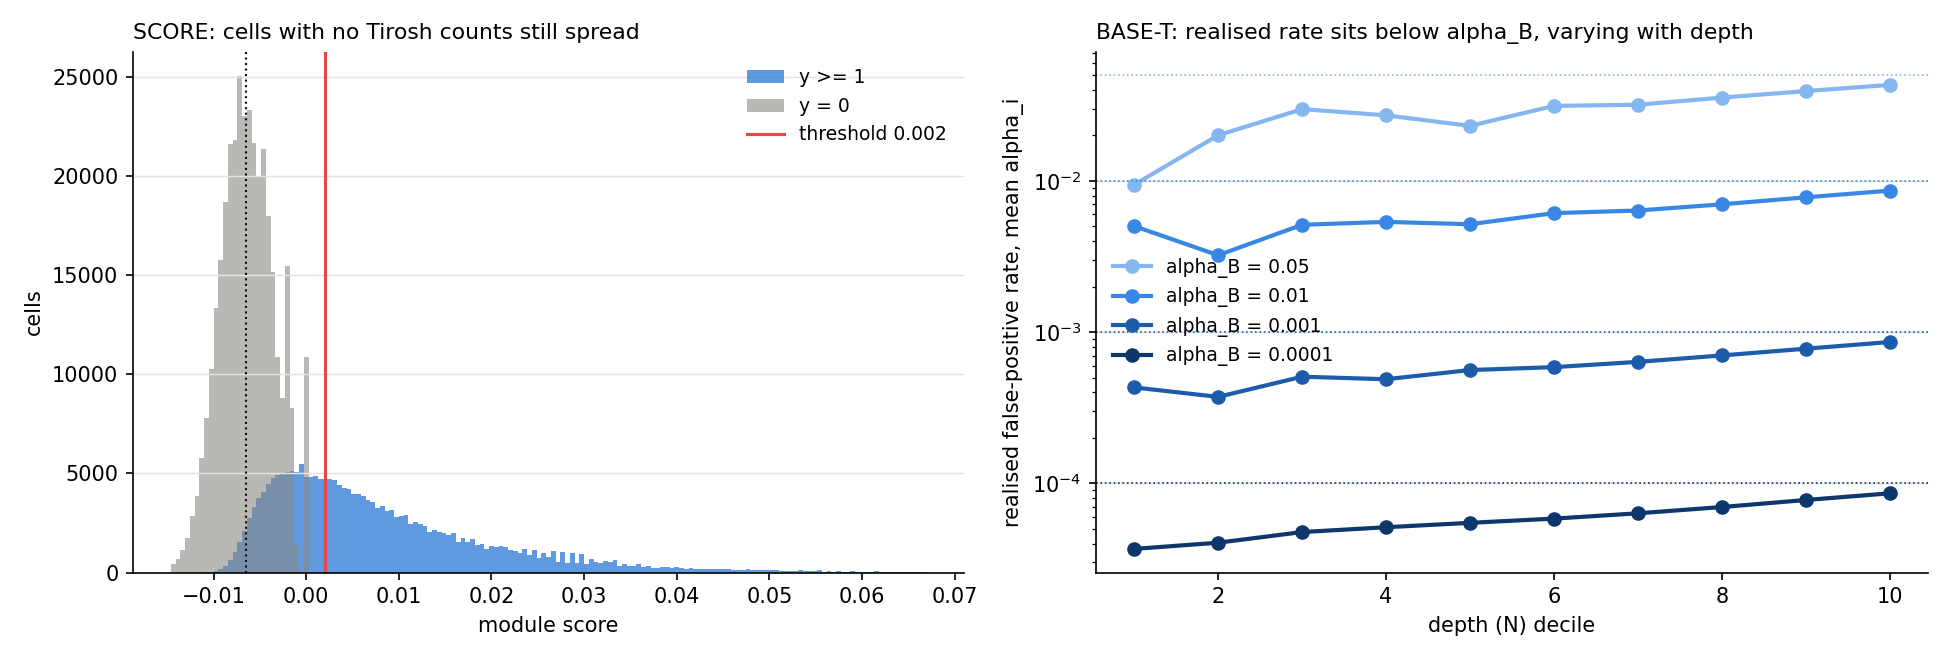
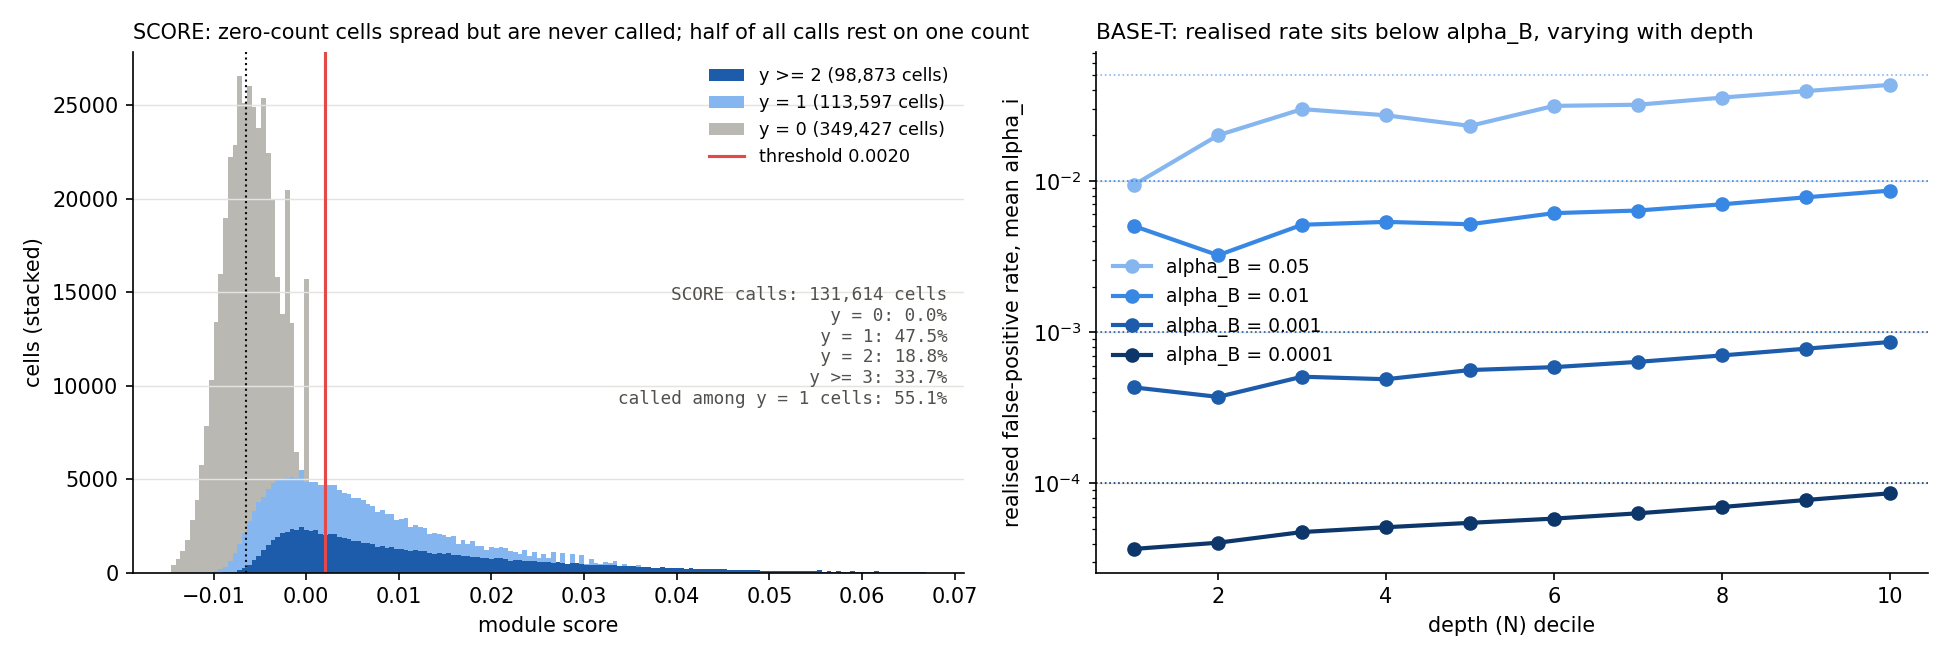
Stage 1 figure: SCORE panel stacked by y = 0 / 1 / >= 2 with the composition of SCORE calls; --replot redraws from frozen labels

diff --git a/run/division_stage1_labels.py b/run/division_stage1_labels.py
@@ -125,7 +125,22 @@ def md_table(df, floatfmt="{:.4g}"):
 
 
 # --------------------------------------------------------------------------
+def replot():
+    """Redraw stage1_labels.png from the frozen labels (no refit)."""
+    out = pd.read_parquet(f"{OUT}/labels.parquet")
+    thr = json.load(open(f"{OUT}/labels_meta.json"))["score"]
+    N = out["N"].to_numpy(float)
+    dec = pd.qcut(N, 10, labels=False, duplicates="drop")
+    disc = pd.DataFrame([{"N decile": int(d) + 1,
+                          **{f"mean alpha_i @{ab:g}": float(out.loc[dec == d, f"alphai_{L.ab_tag(ab)}"].mean())
+                             for ab in L.ALPHA_B_GRID}} for d in np.unique(dec)])
+    plot_stage1(out, thr, disc)
+    say(f"wrote {OUT}/stage1_labels.png")
+
+
 def main():
+    if "--replot" in sys.argv:
+        return replot()
     t0 = time.time()
     os.makedirs(OUT, exist_ok=True)
     cfg = load_config()
@@ -504,17 +519,27 @@ def plot_stage1(out, thr, disc):
     fig, axes = plt.subplots(1, 2, figsize=(13, 4.4))
     ax = axes[0]
     s = out["score"].to_numpy()
-    z0 = out["y"].to_numpy() == 0
+    yv = out["y"].to_numpy()
+    called = s > thr["threshold"]
     bins = np.linspace(np.percentile(s, 0.1), np.percentile(s, 99.9), 160)
-    ax.hist(s[~z0], bins=bins, color="#2a78d6", alpha=0.75, label="y >= 1")
-    ax.hist(s[z0], bins=bins, color="#8a8985", alpha=0.6, label="y = 0")
+    # stacked, so the bars are every cell and the part right of the threshold is SCORE's calls
+    groups = [(yv >= 2, "#1c5cab", "y >= 2"), (yv == 1, "#86b6ef", "y = 1"), (yv == 0, "#b9b8b3", "y = 0")]
+    ax.hist([s[m] for m, _, _ in groups], bins=bins, stacked=True, color=[c for _, c, _ in groups],
+            label=[f"{lab} ({m.sum():,} cells)" for m, _, lab in groups], edgecolor="none")
     ax.axvline(thr["mode"], color=INK, lw=1, ls=":")
     ax.axvline(thr["threshold"], color="#e34948", lw=1.5,
-               label=f"threshold {thr['threshold']:.3f}")
+               label=f"threshold {thr['threshold']:.4f}")
+    nc = int(called.sum())
+    share = [float(np.mean(yv[called] == 1)), float(np.mean(yv[called] == 2)), float(np.mean(yv[called] >= 3))]
+    ax.text(0.98, 0.55, f"SCORE calls: {nc:,} cells\n  y = 0: {np.mean(yv[called] == 0):.1%}\n"
+            f"  y = 1: {share[0]:.1%}\n  y = 2: {share[1]:.1%}\n  y >= 3: {share[2]:.1%}\n"
+            f"called among y = 1 cells: {np.mean(called[yv == 1]):.1%}",
+            transform=ax.transAxes, ha="right", va="top", fontsize=8.5, color=INK2, family="monospace")
     ax.set_xlabel("module score")
-    ax.set_ylabel("cells")
-    ax.set_title("SCORE: cells with no Tirosh counts still spread", loc="left", fontsize=10.5)
-    ax.legend(frameon=False, fontsize=9)
+    ax.set_ylabel("cells (stacked)")
+    ax.set_title("SCORE: zero-count cells spread but are never called; half of all calls rest on one count",
+                 loc="left", fontsize=10)
+    ax.legend(frameon=False, fontsize=8.5, loc="upper right")
     ax = axes[1]
     for ab, c in zip(L.ALPHA_B_GRID, ("#86b6ef", "#3987e5", "#1c5cab", "#0d366b")):
         ax.plot(disc["N decile"], disc[f"mean alpha_i @{ab:g}"], marker="o", color=c, lw=2,
